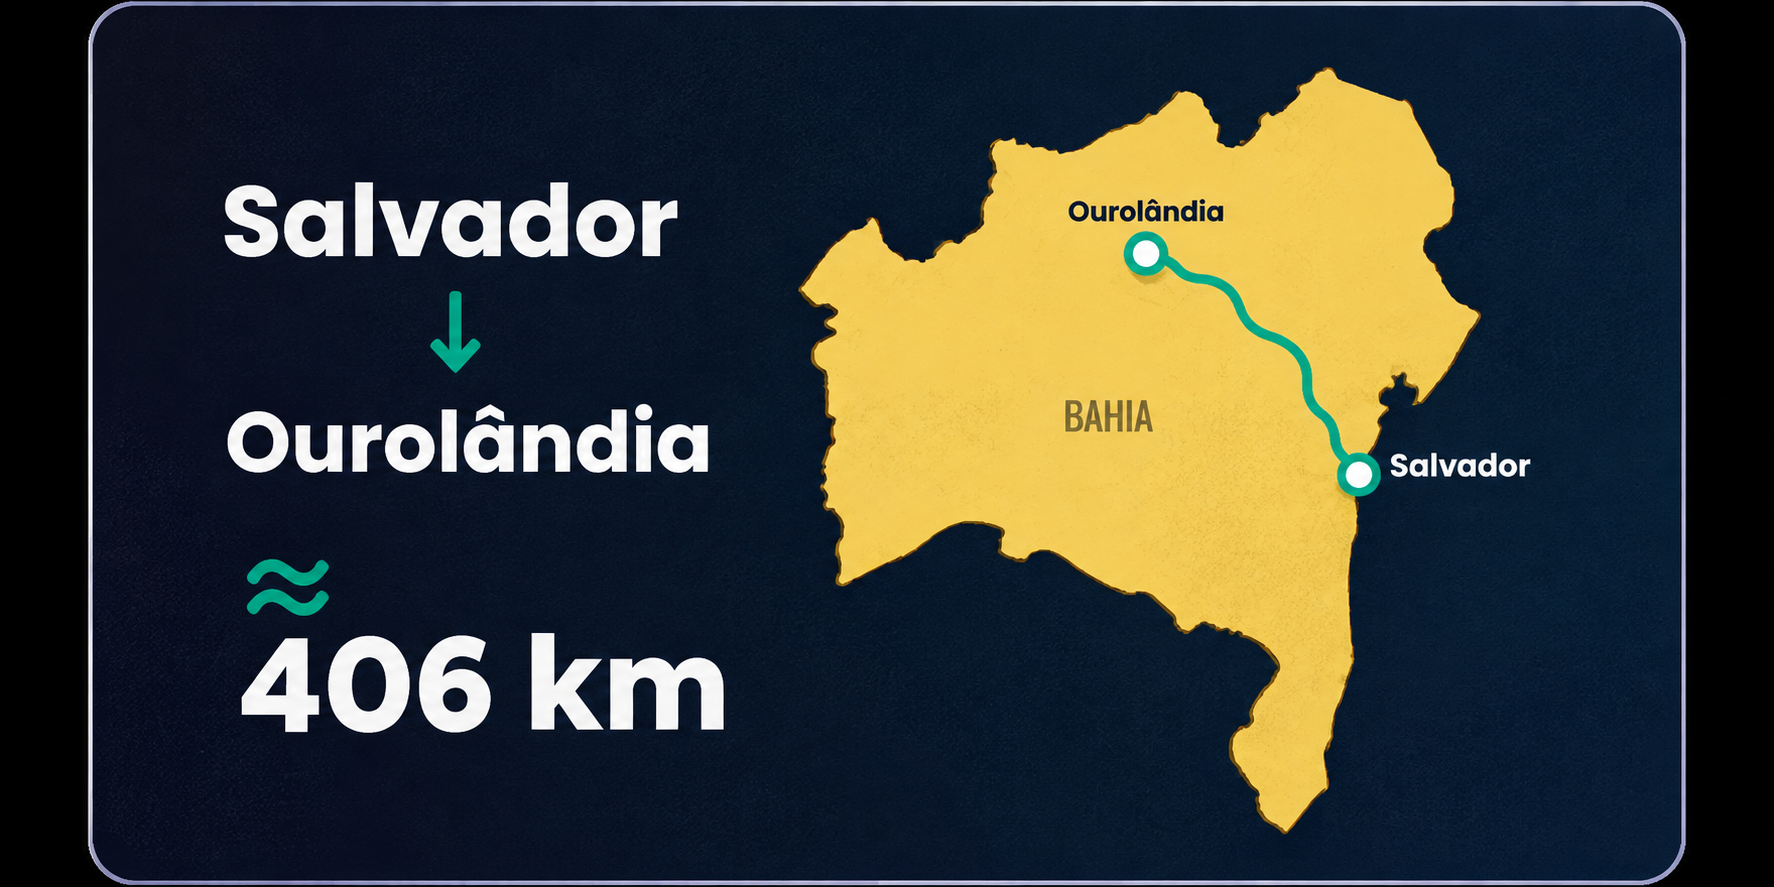
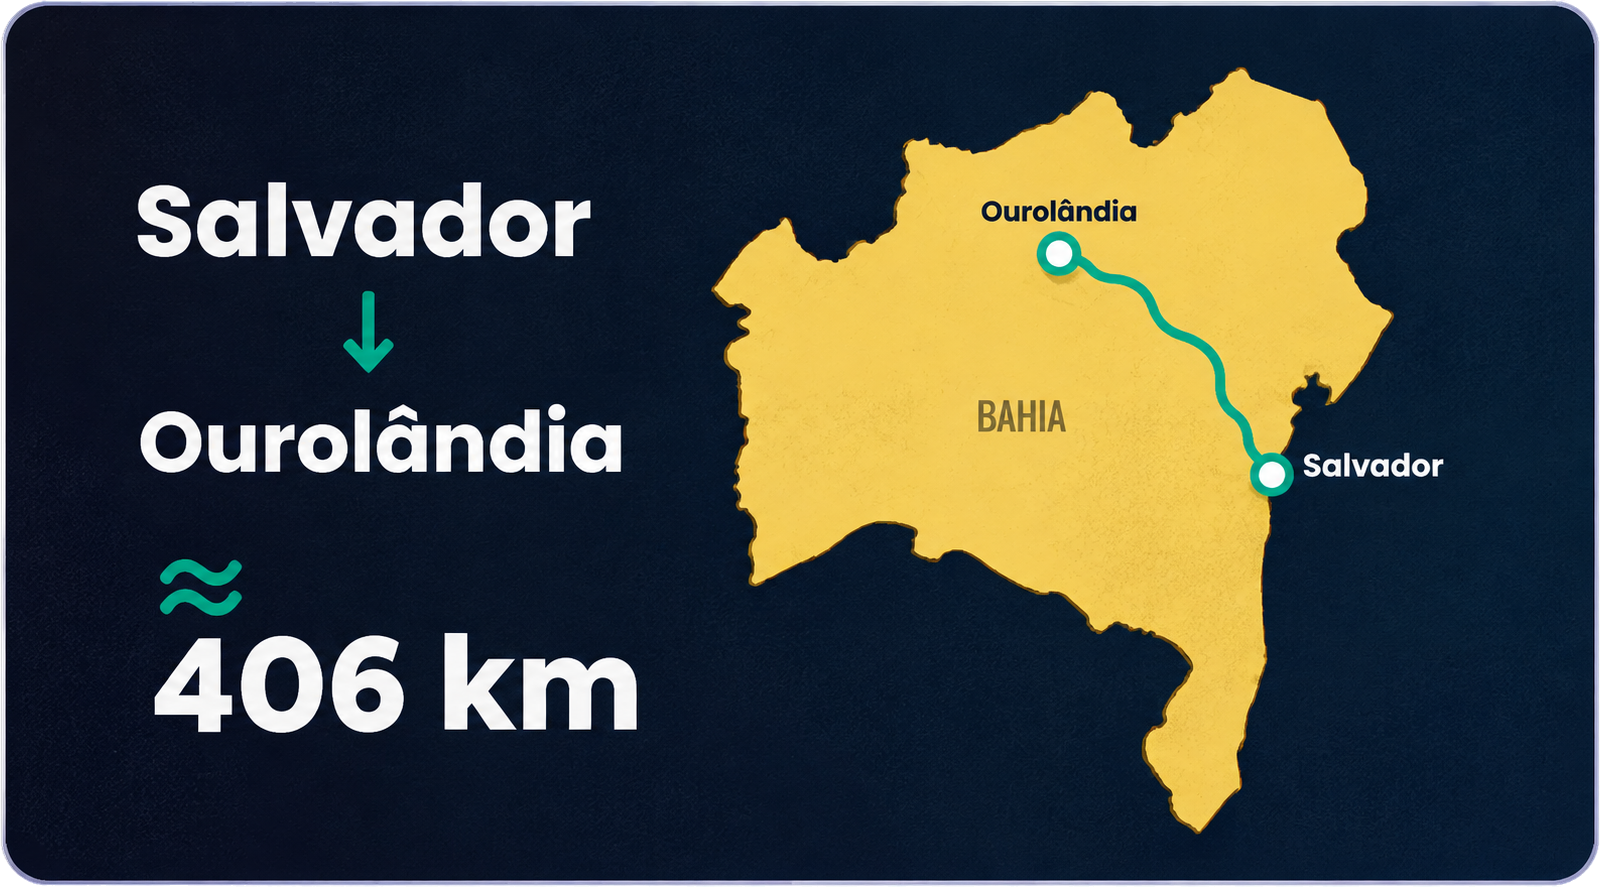
fix: give the intro map popup a correct alpha instead of black corners
O PNG original de Salvador → Ourolândia veio sem transparência (preto
fora do cartão arredondado: faixas laterais e cantos). Versão derivada
com alpha correto em "Popups (Geologar 2)/derivados/", gerada por
app/scripts/black-to-alpha.py: flood fill a partir das bordas (só o
preto conectado à borda vira transparente; interior do cartão segue
100% opaco), alpha gradual no antialias do contorno e recorte ao cartão.
Original intacto. O recorte (crop) deixou de ser necessário.

diff --git a/src/tour/popups.ts b/src/tour/popups.ts
@@ -79,9 +79,8 @@ export const popupTimeline: Record<string, PopupDef[]> = {
       alt: "Mapa da Bahia: de Salvador a Ourolândia, cerca de 406 km",
       start: 17.1,
       position: { yaw: 30, pitch: 14, width: 40 },
-      // O PNG tem faixas pretas de exportação nas laterais (colunas 0–86 e 1687–1773 de 1774):
-      // exibe só o cartão. Remova esta linha se vier uma versão com transparência.
-      crop: { x: 87 / 1774, y: 0, w: 1600 / 1774, h: 1 },
+      // Usa a versão derivada com alpha correto (o original veio com fundo preto fora do cartão
+      // arredondado): Popups (Geologar 2)/derivados/, gerada por scripts/black-to-alpha.py.
     },
   ],
 

diff --git a/scripts/black-to-alpha.py b/scripts/black-to-alpha.py
@@ -1,0 +1,85 @@
+#!/usr/bin/env python3
+"""
+Gera uma versão com alpha correto de um pop-up exportado SEM transparência (fundo preto fora do
+cartão arredondado). O arquivo original não é alterado.
+
+    python scripts/black-to-alpha.py "<origem.png>" "<destino.png>"
+
+Como funciona:
+  1. "Balde de tinta" a partir das bordas da imagem: marca como fundo só o preto CONECTADO à borda
+     (o interior escuro do cartão não é tocado, porque o contorno claro do cartão é um anel fechado).
+  2. Fundo → alpha 0.
+  3. Pixels de antialias do contorno (vizinhos do fundo) → alpha proporcional ao brilho em relação
+     ao contorno, com a cor "desmultiplicada" — borda lisa, sem halo escuro.
+  4. Recorta o resultado ao retângulo do cartão (sem margens transparentes inúteis).
+Requer: Pillow, numpy.
+"""
+import sys
+from collections import deque
+
+import numpy as np
+from PIL import Image
+
+BG_MAX = 100  # canal máximo considerado "preto de fundo" (fundo medido: 0–6; contorno: ~233)
+
+
+def main(src: str, dst: str) -> None:
+    rgb = np.array(Image.open(src).convert("RGB")).astype(np.float32)
+    h, w, _ = rgb.shape
+    mx = rgb.max(-1)
+
+    # 1. flood fill a partir de todas as bordas
+    bg = np.zeros((h, w), bool)
+    q = deque()
+    for x in range(w):
+        for y in (0, h - 1):
+            if mx[y, x] < BG_MAX and not bg[y, x]:
+                bg[y, x] = True
+                q.append((y, x))
+    for y in range(h):
+        for x in (0, w - 1):
+            if mx[y, x] < BG_MAX and not bg[y, x]:
+                bg[y, x] = True
+                q.append((y, x))
+    while q:
+        y, x = q.popleft()
+        for dy, dx in ((1, 0), (-1, 0), (0, 1), (0, -1)):
+            ny, nx = y + dy, x + dx
+            if 0 <= ny < h and 0 <= nx < w and not bg[ny, nx] and mx[ny, nx] < BG_MAX:
+                bg[ny, nx] = True
+                q.append((ny, nx))
+
+    # 2–3. alpha: fundo e seus vizinhos imediatos (antialias externo do contorno) recebem alpha
+    # proporcional ao brilho; o restante fica opaco.
+    edge = bg.copy()
+    edge[1:, :] |= bg[:-1, :]
+    edge[:-1, :] |= bg[1:, :]
+    edge[:, 1:] |= bg[:, :-1]
+    edge[:, :-1] |= bg[:, 1:]
+    outline = np.percentile(mx[edge & ~bg], 90) if (edge & ~bg).any() else 233.0
+    alpha = np.ones((h, w), np.float32)
+    a = np.clip(mx / outline, 0, 1)
+    alpha[edge] = a[edge]
+    alpha[bg & (mx < 12)] = 0.0
+    out = rgb.copy()
+    nz = edge & (alpha > 0)
+    out[nz] = np.clip(rgb[nz] / alpha[nz][:, None], 0, 255)
+
+    rgba = np.dstack([out, alpha * 255]).round().astype(np.uint8)
+    img = Image.fromarray(rgba, "RGBA")
+
+    # 4. recorta ao retângulo do conteúdo visível
+    ys, xs = np.where(alpha > 0.01)
+    img = img.crop((xs.min(), ys.min(), xs.max() + 1, ys.max() + 1))
+    img.save(dst, optimize=True)
+
+    inner = alpha[h // 4 : 3 * h // 4, w // 4 : 3 * w // 4]
+    print(f"{src} -> {dst}")
+    print(f"  fundo transparente: {int((alpha == 0).sum())} px · contorno ~{outline:.0f}")
+    print(f"  interior do cartão opaco: {bool((inner == 1).all())} · tamanho final {img.size[0]}x{img.size[1]}")
+
+
+if __name__ == "__main__":
+    if len(sys.argv) != 3:
+        sys.exit(__doc__)
+    main(sys.argv[1], sys.argv[2])
